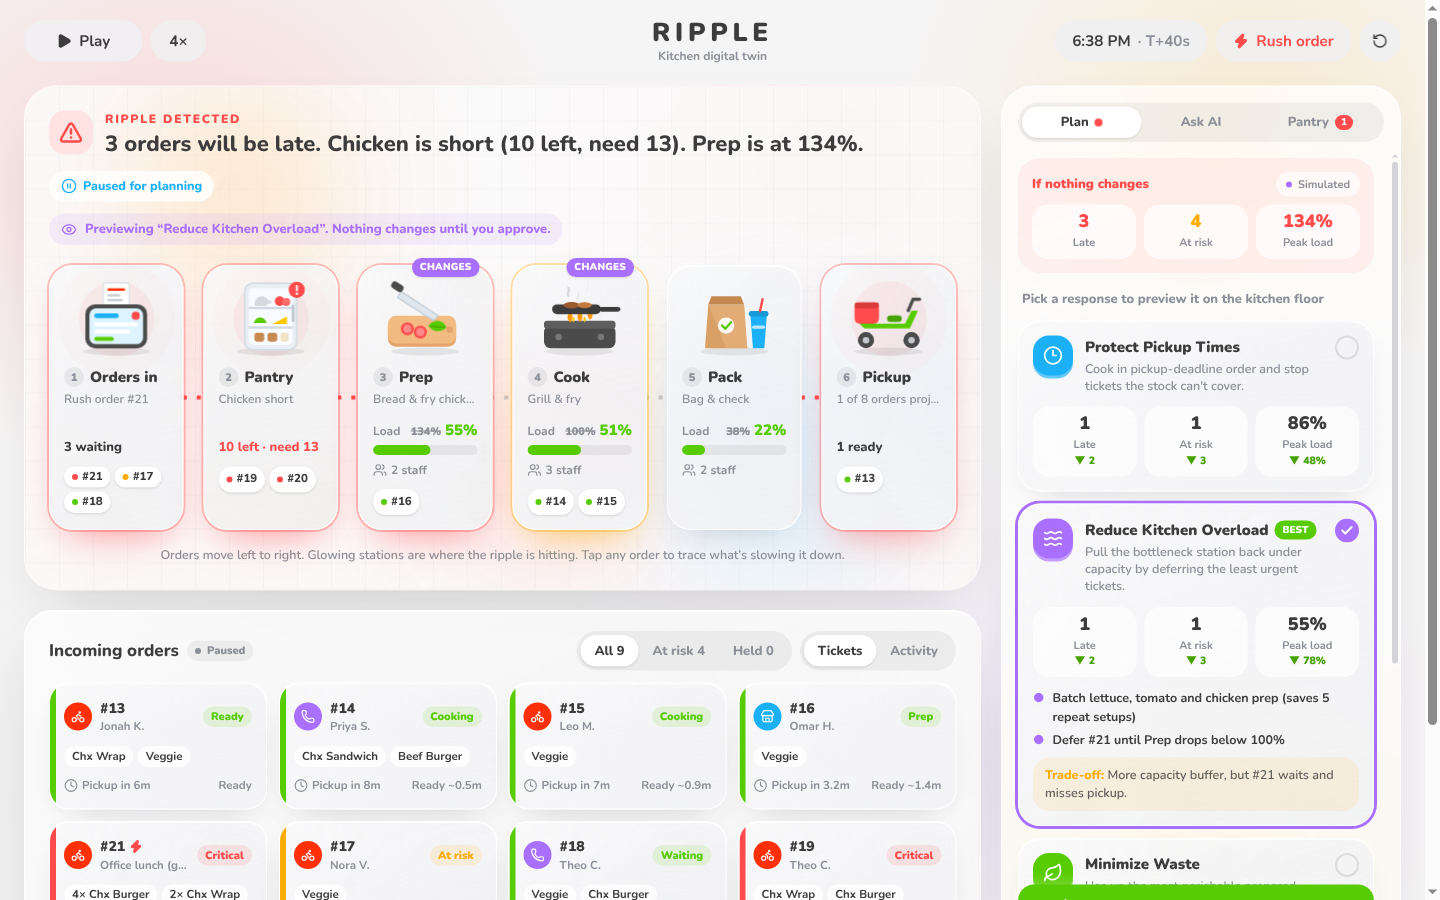
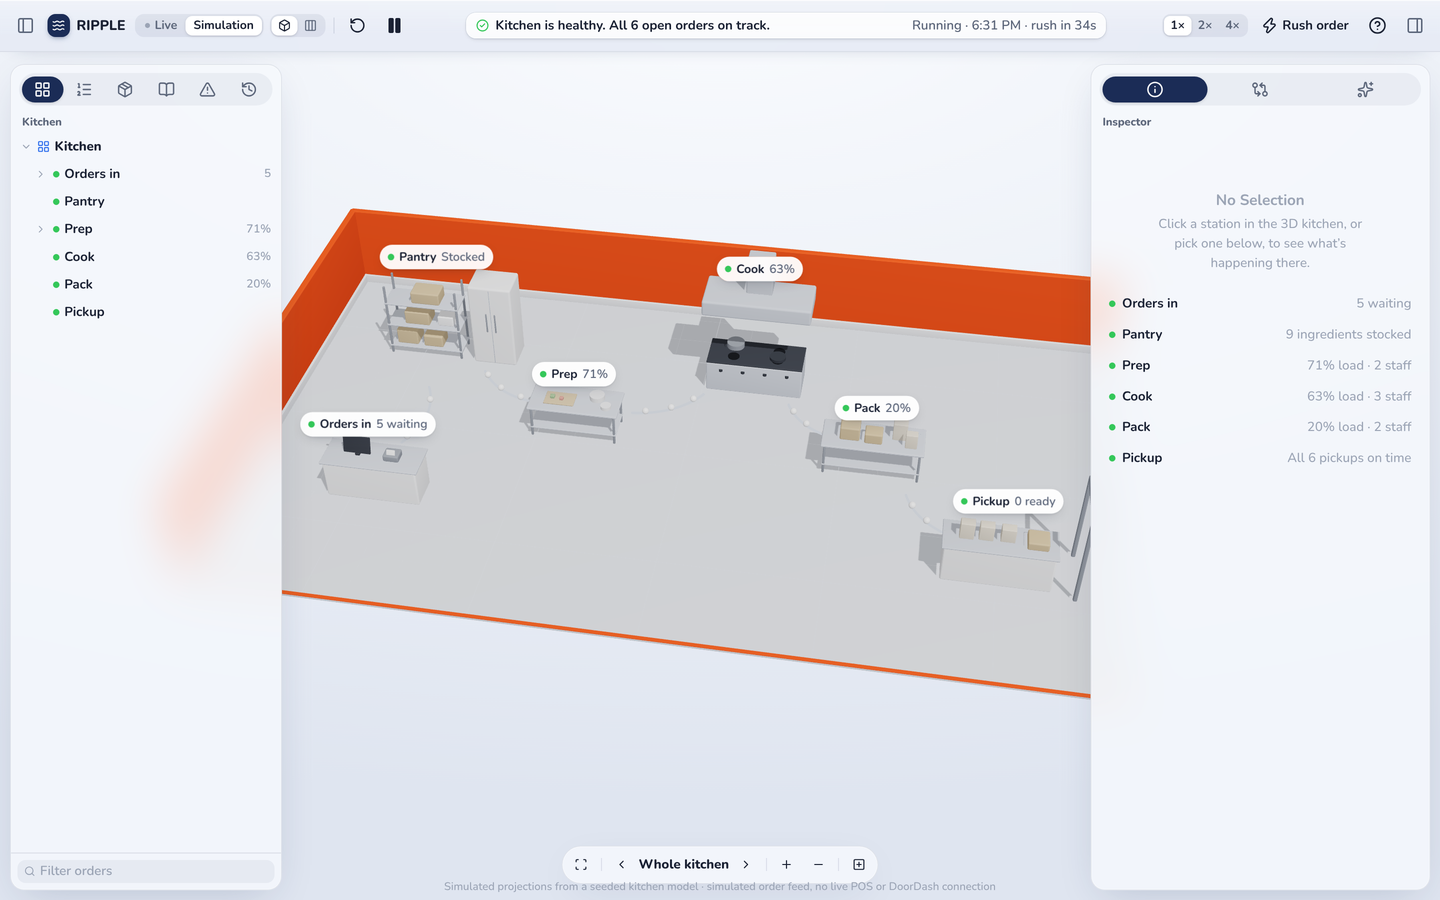
Update README for the current app, live site and stack; refresh screenshot

diff --git a/README.md b/README.md
@@ -2,101 +2,106 @@
 
 > See the ripple effect. Compare your options. Then act.
 
-RIPPLE is a simplified digital twin of a restaurant kitchen. A simulated order feed drives a deterministic model of inventory, prep tasks, stations and pickup promises. When a rush order lands, the **Ripple Map** shows how it spreads (event → ingredient → task → station → order → pickup outcome) and the **Decision Sandbox** compares response strategies side by side before the manager approves one.
+**Live app:** <https://ripple-inky-tau.vercel.app>
+
+RIPPLE is a real-time digital twin of a restaurant kitchen. Every order, check-off and stock count goes into a shared event log, and a deterministic engine on each device replays that log into a 3D model of the kitchen:
+
+```
+order → ingredients → Prep / Cook / Pack → order ready → pickup on time (or late)
+```
+
+When something goes wrong, such as a rush, a shortage or a station above 100%, RIPPLE shows how it spreads through the kitchen, compares responses side by side, and lets the manager approve one. Staff on phones and tablets work the same live kitchen from their own stations.
 
 ![RIPPLE screenshot](docs/screenshot.png)
 
-All outcomes are **simulated projections**. The order feed is simulated; there is no live DoorDash or POS connection.
+## Features
 
-## What's in the demo
+### 3D kitchen
+- **Interactive 3D model** of the kitchen (Orders in → Pantry → Prep → Cook → Pack → Pickup), built with Three.js and React Three Fiber. Orbit, zoom, and tap a station to fly to it and open its status.
+- **Status at a glance:** rings appear only where something is wrong, and tracing an order lights up its path through the stations.
+- **Custom layouts (manager only):** drag extra stations from a palette onto the floor, then move and rotate any station, original or new. New stations join the workflow, add capacity to their station type, and appear in the Kitchen tab as items you can select on their own (e.g. *Prep 2*).
 
-- **3D kitchen** (centerpiece): a simple, light Three.js model of the kitchen (Orders in → Pantry → Prep → Cook → Pack → Pickup) built with React Three Fiber. Drag to orbit, scroll or pinch to zoom, and click a station (or its label) to fly to it and open its status in the Inspector. Rings appear only where something is wrong; tracing an order highlights its path. Needs WebGL; without it the navigator and inspector still work.
-- **Xcode-style layout**: slim toolbar (reset, play/pause, status, speed, rush), a left navigator (Kitchen tree, Orders, Pantry, Issues, Activity) and a right inspector (Inspector, Plan, Ask AI). Both side panels can be hidden from the toolbar.
-- **Seeded scenario**: five healthy orders, background orders every 5–8 s, and a guaranteed heavy chicken rush at ~40 s that causes a chicken shortage, Prep above 100% and several late orders.
-- **Plan**: *Protect Pickup Times*, *Reduce Kitchen Overload* and *Minimize Waste*, each with deterministic metrics vs. "no change" and a trade-off. Selecting one previews it in the 3D kitchen; nothing is applied until you approve.
-- **Ask AI (what-ifs)**: type a question such as "What should we do if 20 customers suddenly walk in?" or "A cook calls out sick". A keyword parser turns it into a scenario you can adjust, the twin plays it out on a copy of the kitchen and ranks responses (strategies, adding staff, emergency restock). You can then play it on the live twin.
-- **Orders**: list with filters (All / At risk / Held), release or cancel held orders, plus an activity log and an Issues list.
-- **Pantry**: on hand vs. needed, tap a number to recount stock.
-- **Controls**: play / pause, 1×/2×/4× speed, *Rush order*, and *Reset* to the exact initial seed.
-- **AI wording**: optional Gemini rephrasing of the deterministic explanations. Gemini never calculates anything; without a key the deterministic text is used.
+### Live kitchen
+- **Join with a code:** the manager opens a kitchen and gets a 6-character code. Staff join from any phone, tablet or laptop with a role (Prep, Line cook, Expo / Pack, Host). No accounts needed.
+- **Station screens:** each role sees only its tickets, with large touch targets and swipe right to send a ticket on.
+- **Item-level check-offs:** finished parts of an order move ahead on their own. Pack waits until every part has arrived.
+- **Do together:** tickets at a station that share a component (e.g. chicken) are grouped so the line makes it once.
+- **Manager Board:** drag any order to any station, forward or back, or drop it onto a 3D station. Android phones vibrate on pick-up and drop.
+- **Roles enforced twice:** in the app and by row-level security in the database.
 
-## Live mode (preview)
+### DoorDash orders
+- **Order intake:** a signed webhook (`POST /api/doordash`) drops orders into the live kitchen with the Dasher's name and ETA. Repeated deliveries are ignored.
+- **Fire times:** every ticket gets a start time so it's ready as the Dasher arrives. Prep sees *Start now* / *Start in 12m*, and a late or early Dasher re-times the queue on every device.
+- **Pack checklist and handoff check:** *Packed* unlocks only when every item is ticked, and Expo confirms the Dasher's name and code before handing the bag over.
+- **Test orders:** a DoorDash button sends realistic orders for demos.
 
-Switch the toolbar from **Simulation** to **Live** to run the real kitchen:
+### Planning and what-ifs
+- **Status bar:** one line for kitchen health. Click it for a short list of issues, each with a plain action.
+- **Over capacity:** when a station goes above 100%, RIPPLE suggests moving a person from the least busy station, holding the order with the latest pickup, or cancelling an order with a ready-to-send customer message.
+- **Plans:** *Protect Pickup Times*, *Reduce Kitchen Overload* and *Minimize Waste* are each simulated on a copy of the kitchen and compared against "no change". Nothing changes until the manager approves.
+- **Ask:** type a what-if such as "20 customers just walked in" or "a cook called out sick". The engine plays it out on a copy of the kitchen and ranks the responses.
 
-- The **manager** opens a kitchen and gets a 6-character join code.
-- **Other devices** (Prep, Line cook, Expo / Pack, Host) join with the code and a role.
-- Station devices get a focused ticket screen. Tapping **Prep done → Cook** moves the order to the next stage on every screen.
-- The host and manager enter orders with **New order**.
+### Menu and pantry
+- **Menu scanning:** photograph a menu and RIPPLE reads it on the device (Tesseract.js OCR with image cleanup and layout reconstruction), then turns each line into a draft dish with its price and station times.
+- **Suggested ingredients:** each dish gets likely ingredients, including ones not in the pantry yet. Saving creates the dish and any new pantry ingredients together. The manager reviews everything before it's saved.
+- **Pantry:** stock on hand against what open orders need, one-tap recounts, and shortage warnings before the line runs out.
+- **Add and remove:** managers add or remove dishes and ingredients; changes sync to every device.
 
-- **Prep fire queue:** the prep screen sorts tickets into **Start now** and **Start later**, using each order's fire time (timed so it's ready as the Dasher arrives).
-- **Pack and handoff:** Expo ticks items into the bag and checks the Dasher's name and code at handoff.
-- **Board:** managers drag any ticket to any station from the Board, or from the navigator onto a 3D station label. Android phones vibrate on pick-up and drop.
-- **DoorDash:** orders arrive through `POST /api/doordash` (signed webhooks) or the **DoorDash** test-order button.
-- **Phones and tablets:** works in a phone or tablet browser, with a bottom tab bar and swipe-right to complete a ticket.
+### Simulation mode
+- A seeded scenario with a guaranteed rush and chicken shortage, for demos and training. Play, pause, 1×/2×/4× speed, *Rush order*, and *Reset* back to the exact same starting point.
 
-With Supabase configured (`.env.example`), devices anywhere can join. Without it, kitchens stay in this browser (try two tabs). The setup, roles, data model and webhook format are in [`docs/live-mode.md`](docs/live-mode.md). The hackathon pitch and the happy- and sad-path demo script are in [`docs/demo-script.md`](docs/demo-script.md).
+Press **?** in the app for an explanation of every number and how to get around.
 
-Press **?** in the toolbar for an explanation of every number and how to get around.
+## How it works
+
+![How RIPPLE works](docs/diagrams/flow.png)
+
+1. **Orders in:** DoorDash webhooks, the in-app *New order* form, or the simulated feed.
+2. **Shared event log:** every action is an append-only event in Supabase Postgres, protected by row-level security and pushed to every device with Supabase Realtime.
+3. **Deterministic engine:** each device replays the events to rebuild the kitchen, traces each order to its ingredients and stations, and projects ready times, fire times and risk. The same events always give the same results.
+4. **Detect and decide:** overloads, shortages and late pickups trigger ranked plans that the manager can approve.
+5. **Screens:** the 3D twin and station screens update, and staff actions become new events.
+
+More detail: [`docs/presentation.md`](docs/presentation.md) (technical features and diagrams), [`docs/features.md`](docs/features.md) (features mapped to merchant pain points), [`docs/live-mode.md`](docs/live-mode.md) (roles, data model, webhook format) and [`docs/demo-script.md`](docs/demo-script.md) (demo walkthrough).
+
+## Tech stack
+
+- **Languages:** TypeScript / TSX, SQL (PostgreSQL), CSS
+- **Frontend:** React 19, Vite 8, Tailwind CSS 4, Framer Motion, Zustand, Lucide icons
+- **3D:** Three.js, React Three Fiber, Drei
+- **OCR:** Tesseract.js (WebAssembly, runs in the browser)
+- **Backend:** Supabase (PostgreSQL, row-level security, Realtime, anonymous auth)
+- **Hosting:** Vercel (static site and serverless functions on Node.js 22)
+- **Tooling:** Vitest, oxlint, TypeScript, GitHub
 
 ## Run locally
 
-Requires Node.js 22.12+ (or 20.19+).
+Requires Node.js 22.12+.
 
 ```bash
 npm install
 npm run dev        # http://localhost:5173
-npm test           # deterministic engine tests
+npm test           # engine and live-mode tests
 npm run build      # type-check + production build into dist/
 ```
 
-Optional AI wording: create `.env.local` with `GEMINI_API_KEY=...` (never commit it). Without a key, the app uses the deterministic text.
+The local app connects to the same Supabase project as the live site, so live kitchens work across devices out of the box. To try it from a phone, open the address Vite prints under "Network" on the same Wi-Fi.
 
 ## Project layout
 
 ```
-src/engine/      seed data, simulation (ingestEvent, tick, project), strategies, what-if scenarios, tests
-src/components/  Kitchen3D (Three.js scene), Toolbar + AlertBar, Navigator, Inspector, Plan / Ask AI tabs, HelpSheet, shared kit
-src/components/live/  sign-in (LiveGate), StationScreen, NewOrderForm, TeamPanel
-src/live/        roles & permissions, live event types, event replay, LiveBackend (local + Supabase)
-supabase/        config + SQL migration (tables, RLS, join functions, realtime)
-api/doordash.ts  signed DoorDash-style order webhook → live kitchen (mapping in api/_doordash.ts)
-src/lib/areas.ts  derives per-area status shared by the 3D scene and the inspector
-src/store.ts  zustand store wiring the engine to the UI
-api/explain.ts   Vercel serverless function for optional Gemini wording
-server/       dev-server middleware that mirrors /api/explain locally
+src/engine/           seed data, simulation (ingestEvent, tick, project), strategies, what-if scenarios
+src/components/       Kitchen3D (Three.js scene), Toolbar, Navigator, Inspector, Plan / Ask tabs, Menu and Pantry panels
+src/components/live/  sign-in, station screens, Board, New order form, DoorDash panel, team panel
+src/live/             roles and permissions, live event types, event replay, Supabase backend
+src/lib/              station layout, 3D area status, menu scanning (OCR + parsing), haptics
+src/store.ts          Zustand store wiring the engine to the UI
+supabase/migrations/  tables, row-level security, join functions, realtime
+api/                  Vercel functions: DoorDash webhook and explanation wording
 ```
 
-`ingestEvent()` in `src/engine/engine.ts` is the single entry point for orders, rush orders and stock corrections, which is where a real POS or DoorDash webhook would plug in later.
+`ingestEvent()` in `src/engine/engine.ts` is the single entry point every event goes through, whether it comes from a device, a webhook or the simulation.
 
-## Connect to GitHub
+## Deployment
 
-1. Create an empty repository on GitHub (no README/.gitignore), e.g. `ripple-kitchen-twin`.
-2. From this folder:
-
-   ```bash
-   git remote add origin https://github.com/<your-username>/ripple-kitchen-twin.git
-   git branch -M main
-   git push -u origin main
-   ```
-
-   Or with the GitHub CLI: `gh repo create ripple-kitchen-twin --public --source=. --push`
-
-## Publish
-
-### Option A: Vercel (recommended, supports the optional AI route)
-
-1. Go to <https://vercel.com/new> and import the GitHub repository.
-2. Vercel detects Vite automatically (build `npm run build`, output `dist`). Click **Deploy**.
-3. Optional: in *Project → Settings → Environment Variables*, add `GEMINI_API_KEY`, then redeploy.
-
-Every push to `main` redeploys automatically, and pull requests get preview URLs.
-
-### Option B: GitHub Pages (static only, no AI route)
-
-This repo includes `.github/workflows/deploy-pages.yml`.
-
-1. On GitHub: *Settings → Pages → Build and deployment → Source: **GitHub Actions***.
-2. Push to `main`. The workflow builds and publishes to `https://<your-username>.github.io/<repo-name>/`.
-
-"Rephrase with AI" falls back to deterministic text on Pages, since there is no server.
+The `main` branch deploys to Vercel automatically on every push, and pull requests get preview URLs. Database changes live in `supabase/migrations/`.
